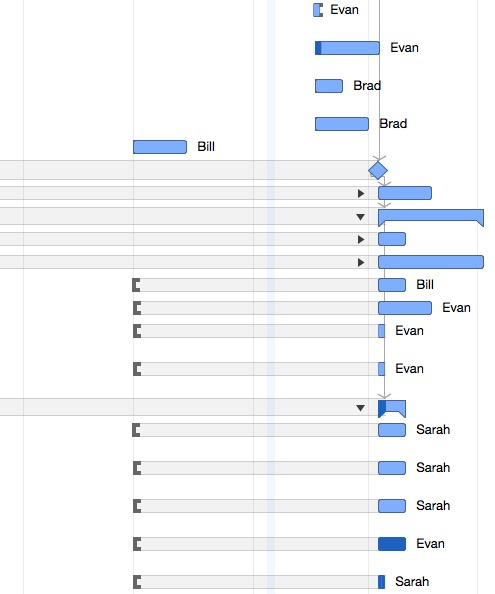
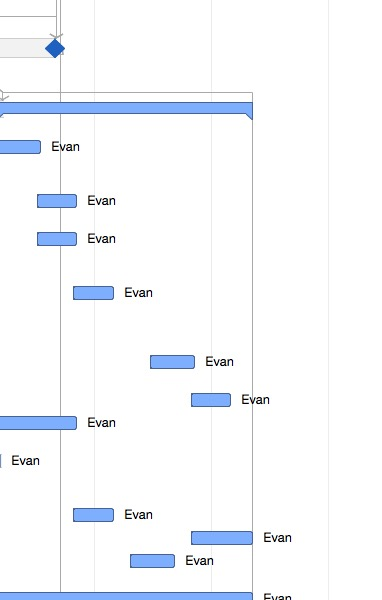
Updating gh-pages on Mon Dec 12 11:35:58 EST 2016

diff --git a/resource.html b/resource.html
@@ -59,7 +59,7 @@
                 <td>4/25/16, 8:15 AM</td>
                 <td>8/1/17, 5:00 PM</td>
                 <td>224w 2d 2.25h</td>
-                <td>29%</td>
+                <td>52%</td>
                 <td></td>
             </tr>
             
@@ -68,7 +68,7 @@
                 <td>4/25/16, 8:15 AM</td>
                 <td>3/1/17, 8:15 AM</td>
                 <td>44w 2d</td>
-                <td>&lt; 1%</td>
+                <td>75%</td>
                 <td></td>
             </tr>
             
@@ -118,6 +118,15 @@
             </tr>
             
             <tr>
+                <td style="padding-left: 18px;" class="wrap taskTypeTask">Determine the best method to migrate our users permissions to Heroku: How much CPU time should they get? How much memory should they get? Should they be allowed to provision as many websites as they want, etc.</td> 
+                <td>7/29/16, 4:30 PM</td>
+                <td>8/5/16, 4:30 PM</td>
+                <td>1w</td>
+                <td>100%</td>
+                <td></td>
+            </tr>
+            
+            <tr>
                 <td style="padding-left: 18px;" class="wrap taskTypeTask">Determine the best method for file storage on Heroku — using an S3 bucket, connecting to our local NetApp, etc.</td> 
                 <td>7/29/16, 4:30 PM</td>
                 <td>8/5/16, 4:30 PM</td>
@@ -131,15 +140,6 @@
                 <td>7/29/16, 4:30 PM</td>
                 <td>8/2/16, 4:30 PM</td>
                 <td>2d</td>
-                <td>100%</td>
-                <td></td>
-            </tr>
-            
-            <tr>
-                <td style="padding-left: 18px;" class="wrap taskTypeTask">Determine the best method to migrate our users permissions to Heroku: How much CPU time should they get? How much memory should they get? Should they be allowed to provision as many websites as they want, etc.</td> 
-                <td>7/29/16, 4:30 PM</td>
-                <td>8/5/16, 4:30 PM</td>
-                <td>1w</td>
                 <td>100%</td>
                 <td></td>
             </tr>
@@ -212,7 +212,7 @@
                 <td>8/1/16, 8:00 AM</td>
                 <td>3/1/17, 5:00 PM</td>
                 <td>30w 3d</td>
-                <td>&lt; 1%</td>
+                <td>60%</td>
                 <td></td>
             </tr>
             

diff --git a/task.html b/task.html
@@ -67,7 +67,7 @@
                 <td>4/25/16, 8:15 AM</td>
                 <td>11/1/17, 5:00 PM</td>
                 <td>79w 2d 7.75h</td>
-                <td>35%</td>
+                <td>55%</td>
                 <td></td>
                 <td class="total"></td>
                 <td></td>
@@ -84,7 +84,7 @@
                 <td>4/25/16, 8:15 AM</td>
                 <td>3/1/17, 5:00 PM</td>
                 <td>44w 2d 7.75h</td>
-                <td>46%</td>
+                <td>76%</td>
                 <td></td>
                 <td class="total"></td>
                 <td></td>
@@ -373,7 +373,7 @@
                 <td>4/25/16, 8:15 AM</td>
                 <td>3/1/17, 5:00 PM</td>
                 <td>44w 2d 7.75h</td>
-                <td>9%</td>
+                <td>72%</td>
                 <td></td>
                 <td class="total"></td>
                 <td></td>
@@ -577,7 +577,7 @@
                 <td>4/25/16, 8:15 AM</td>
                 <td>3/1/17, 8:15 AM</td>
                 <td>44w 2d</td>
-                <td>&lt; 1%</td>
+                <td>75%</td>
                 <td></td>
                 <td class="total"></td>
                 <td>Evan</td>
@@ -594,7 +594,7 @@
                 <td>8/1/16, 8:00 AM</td>
                 <td>3/1/17, 5:00 PM</td>
                 <td>30w 3d</td>
-                <td>&lt; 1%</td>
+                <td>60%</td>
                 <td></td>
                 <td class="total"></td>
                 <td>Evan</td>

diff --git a/gantt.html b/gantt.html
@@ -30,16 +30,24 @@
 	<h1>RCECloud: Gantt Chart</h1>
 		<div class="tablewrap"><table border="0" cellspacing="0" cellpadding="0">
 <tr>
-	<td><img src="include/gantt0,0.jpg?nocacheTag=947390515" border=0/></td>
-	<td><img src="include/gantt1,0.jpg?nocacheTag=2090897567" border=0/></td>
+	<td><img src="include/gantt0,0.jpg?nocacheTag=-476655410" border=0/></td>
+	<td><img src="include/gantt1,0.jpg?nocacheTag=-505209378" border=0/></td>
 </tr>
 <tr>
-	<td><img src="include/gantt0,1.jpg?nocacheTag=193712186" border=0/></td>
-	<td><img src="include/gantt1,1.jpg?nocacheTag=2100524273" border=0/></td>
+	<td><img src="include/gantt0,1.jpg?nocacheTag=-1705112377" border=0/></td>
+	<td><img src="include/gantt1,1.jpg?nocacheTag=1035466877" border=0/></td>
 </tr>
 <tr>
-	<td><img src="include/gantt0,2.jpg?nocacheTag=-1033659332" border=0/></td>
-	<td><img src="include/gantt1,2.jpg?nocacheTag=2127985037" border=0/></td>
+	<td><img src="include/gantt0,2.jpg?nocacheTag=-1487412844" border=0/></td>
+	<td><img src="include/gantt1,2.jpg?nocacheTag=-1089495713" border=0/></td>
+</tr>
+<tr>
+	<td><img src="include/gantt0,3.jpg?nocacheTag=-64243227" border=0/></td>
+	<td><img src="include/gantt1,3.jpg?nocacheTag=242306356" border=0/></td>
+</tr>
+<tr>
+	<td><img src="include/gantt0,4.jpg?nocacheTag=-1308916085" border=0/></td>
+	<td><img src="include/gantt1,4.jpg?nocacheTag=-130809963" border=0/></td>
 </tr>
 </table>
 </div>

diff --git a/index.html b/index.html
@@ -32,8 +32,8 @@
 			<p class="number"><span class="data-missing">None</span></p>
 		</div>
 		<div id="completed" class="box">
-			<h2><span class="number">35%</span> Completed</h2>
-			<div id="bar"><div id="fill" style="width:35%;"></div></div>
+			<h2><span class="number">55%</span> Completed</h2>
+			<div id="bar"><div id="fill" style="width:55%;"></div></div>
 			<p><span class="label">Start:</span> 4/23/16, 12:00 AM</p>
 			<p><span class="label">End Date:</span> 11/1/17, 5:00 PM</p>
 			<p><span class="label">Variance:</span> <span class="data-missing">None</span></p>
@@ -60,7 +60,7 @@
                 <td>4/25/16, 8:15 AM</td>
                 <td>8/1/17, 5:00 PM</td>
                 <td>224w 2d 2.25h</td>
-                <td>29%</td>
+                <td>52%</td>
                 <td></td>
             </tr>
             
